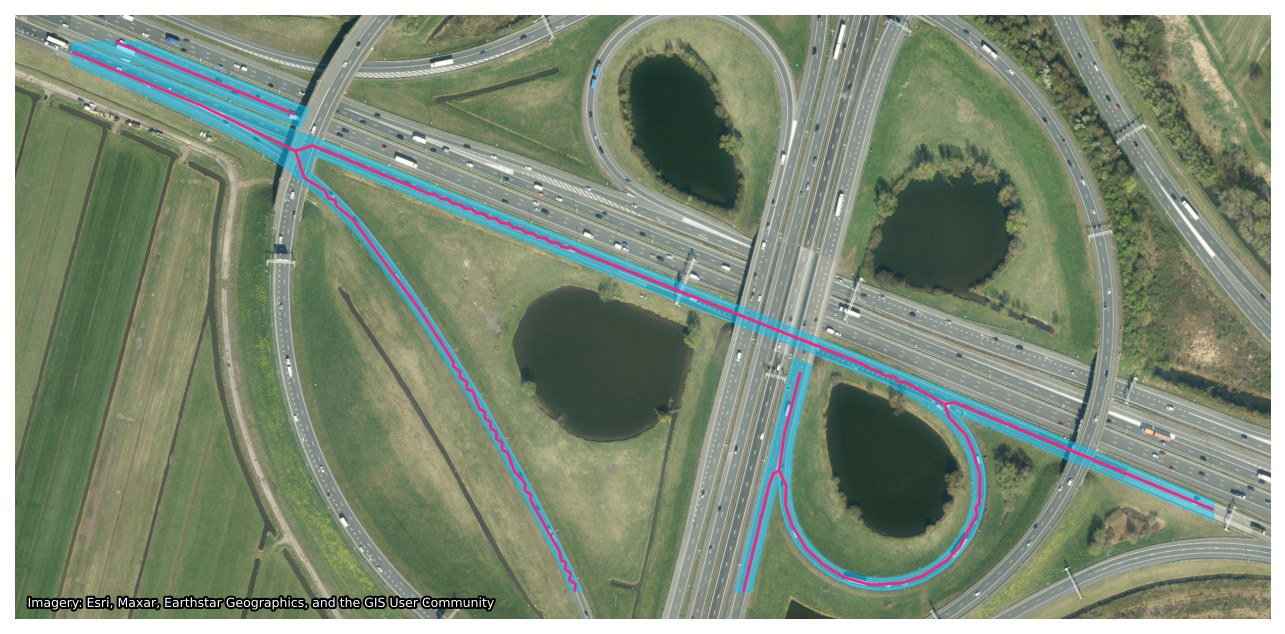
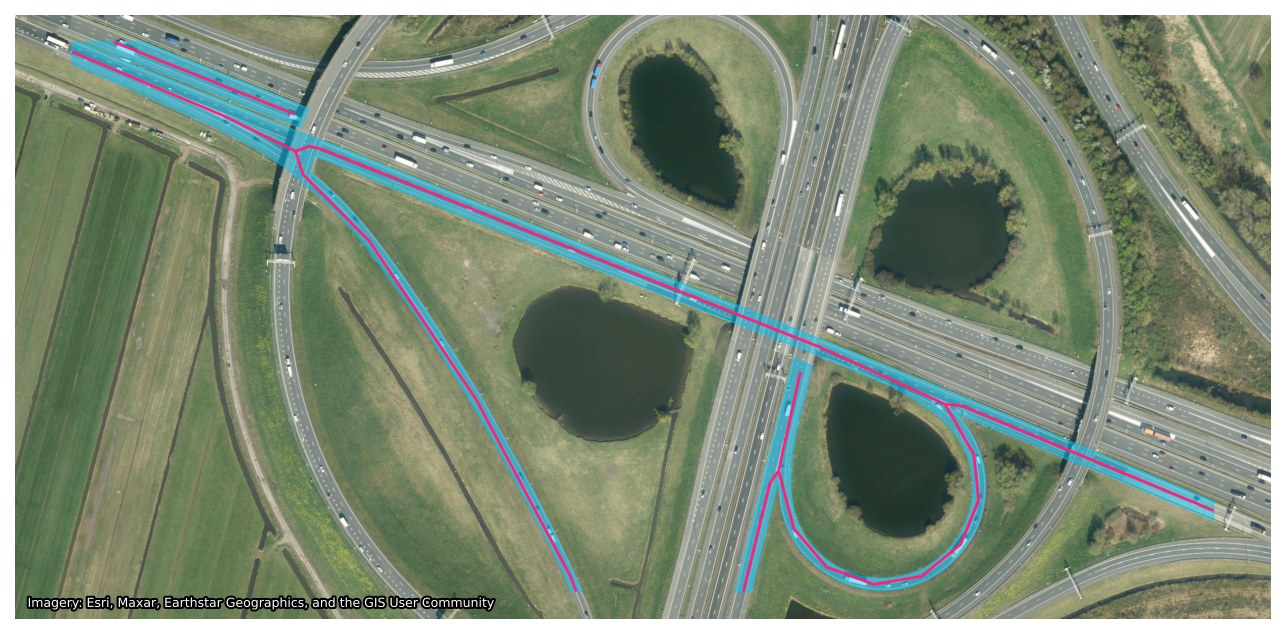
Fix remaining zigzag: densify_distance was the real lever, not simplifytolerance
-0.1 wasn't enough. Rather than keep pushing simplifytolerance (which trades
curve fidelity against noise on a single shared parameter, and this polygon
needs both a tight curve and a straight run handled well), tested
densify_distance instead. Finer pre-densification (5.0 vs the 10.0 default)
removed the zigzag entirely, confirmed by testing coarser values (30, 50)
and disabling densify, which made it worse. Final combo tested against both
the loop and the straight run: densify_distance=5.0, simplifytolerance=-0.15.

diff --git a/benchmarks/generate_figures.py b/benchmarks/generate_figures.py
@@ -180,15 +180,20 @@ def figure_real_interchange_satellite(gdf: gpd.GeoDataFrame) -> None:
 
     row = gdf[gdf["osm_id"] == INTERCHANGE_OSM_ID]
     # The default simplifytolerance (-0.25, pygeoops' own auto mode) visibly
-    # cuts the corner on this loop ramp's tight curve radius. But this one
-    # polygon also has a long straight section, and dropping the magnitude
-    # too far (tested -0.05) reintroduces the Voronoi skeleton's natural
-    # zigzag noise there — less simplification hugs curves better but stops
-    # smoothing out that noise. -0.1 was the best balance of the values
-    # tested: hugs the loop closely without visibly zigzagging the straight
-    # run. This is a per-figure tuning choice, not a change to the library's
-    # default.
-    centerline = compute_centerlines(row, simplifytolerance=-0.1)
+    # cuts the corner on this loop ramp's tight curve radius. Lowering just
+    # the tolerance (tried -0.1, -0.05) re-exposed the Voronoi skeleton's
+    # natural zigzag noise on this polygon's long straight run instead —
+    # simplifytolerance alone can't fix both a tight curve and a straight
+    # run at once. densify_distance is the other lever: finer pre-
+    # densification (5.0 vs the 10.0 default) gives the skeleton a more
+    # uniform, symmetric set of boundary points to work from, which turned
+    # out to remove the zigzag far more effectively than more aggressive
+    # simplification did — confirmed by testing densify_distance up to 50
+    # and disabled entirely, which made the zigzag worse, not better.
+    # densify_distance=5 + simplifytolerance=-0.15 was the cleanest of every
+    # combination tested on both the loop and the straight run. Per-figure
+    # tuning choice, not a change to the library's defaults.
+    centerline = compute_centerlines(row, densify_distance=5.0, simplifytolerance=-0.15)
     row_clip = row.to_crs(3857).clip(INTERCHANGE_BBOX_3857)
     centerline_clip = centerline.to_crs(3857).clip(INTERCHANGE_BBOX_3857)
 
